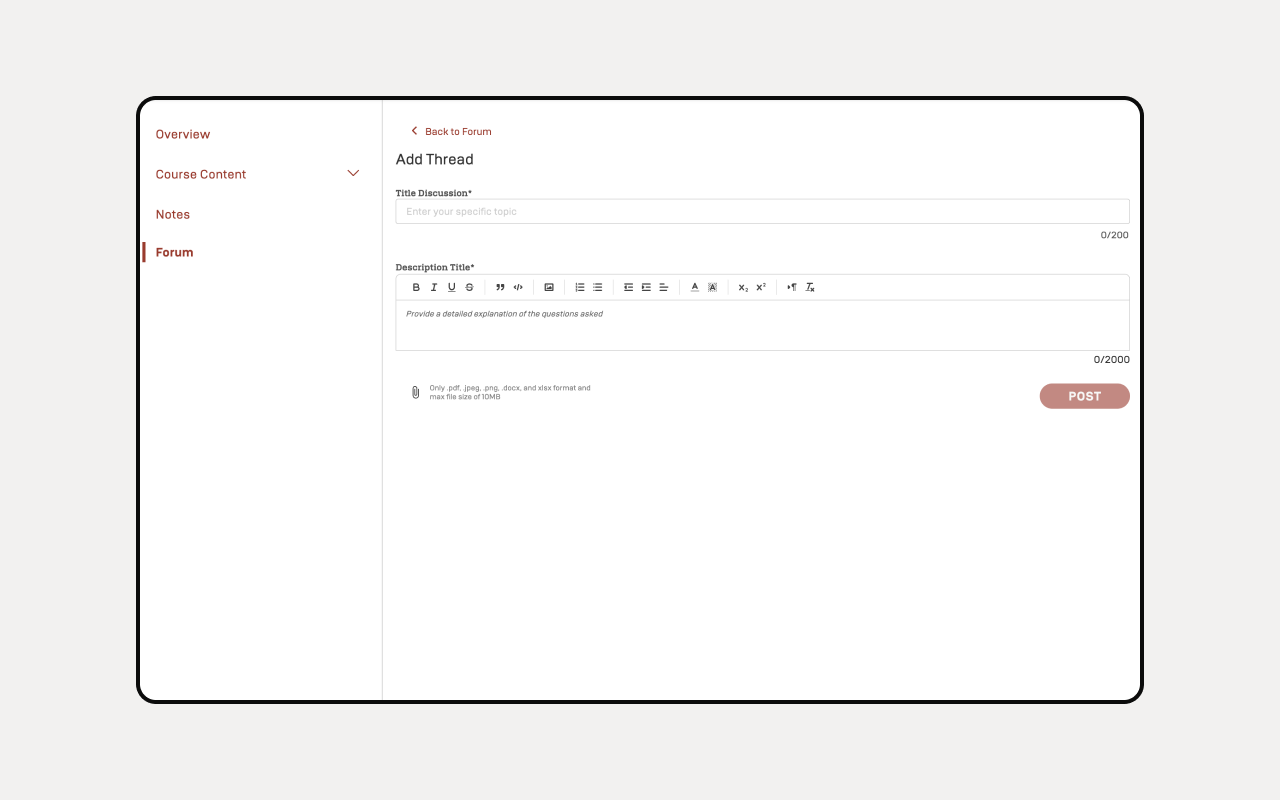
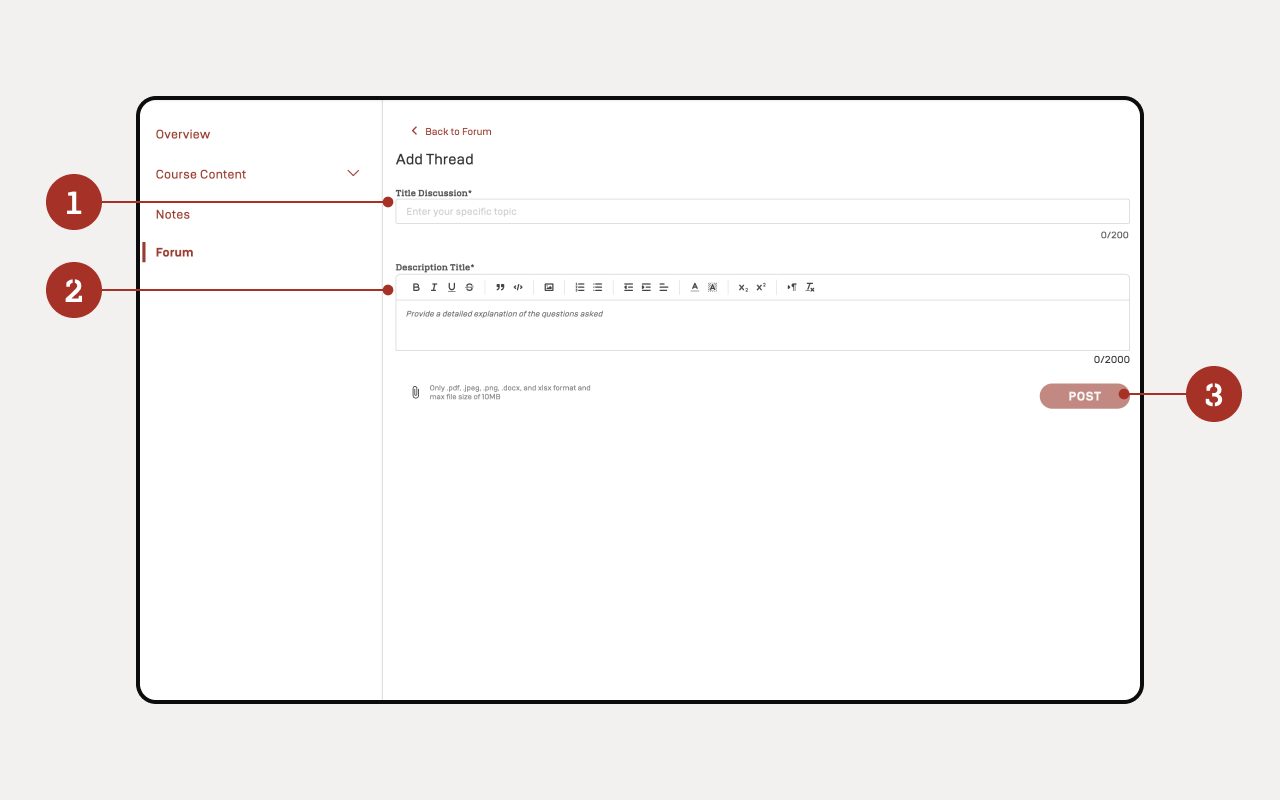
Update skills “user-skills-course-access-guide”

diff --git a/contents/docs/skills/en/user-skills-course-access-guide.md b/contents/docs/skills/en/user-skills-course-access-guide.md
@@ -145,7 +145,7 @@ The "Notes" page will show notes taken throughout the course based on its course
 
 ![](/img/course_detail_forum_eng.png)
 
-1. Type the discussion title in "Discussion Title".
+1. Type the discussion title in "Title Discussion".
 2. Type the contents of the discussion in the "Description Title".
 3. If the discussion you want to submit to the forum is satisfactory, click "POST".
 
